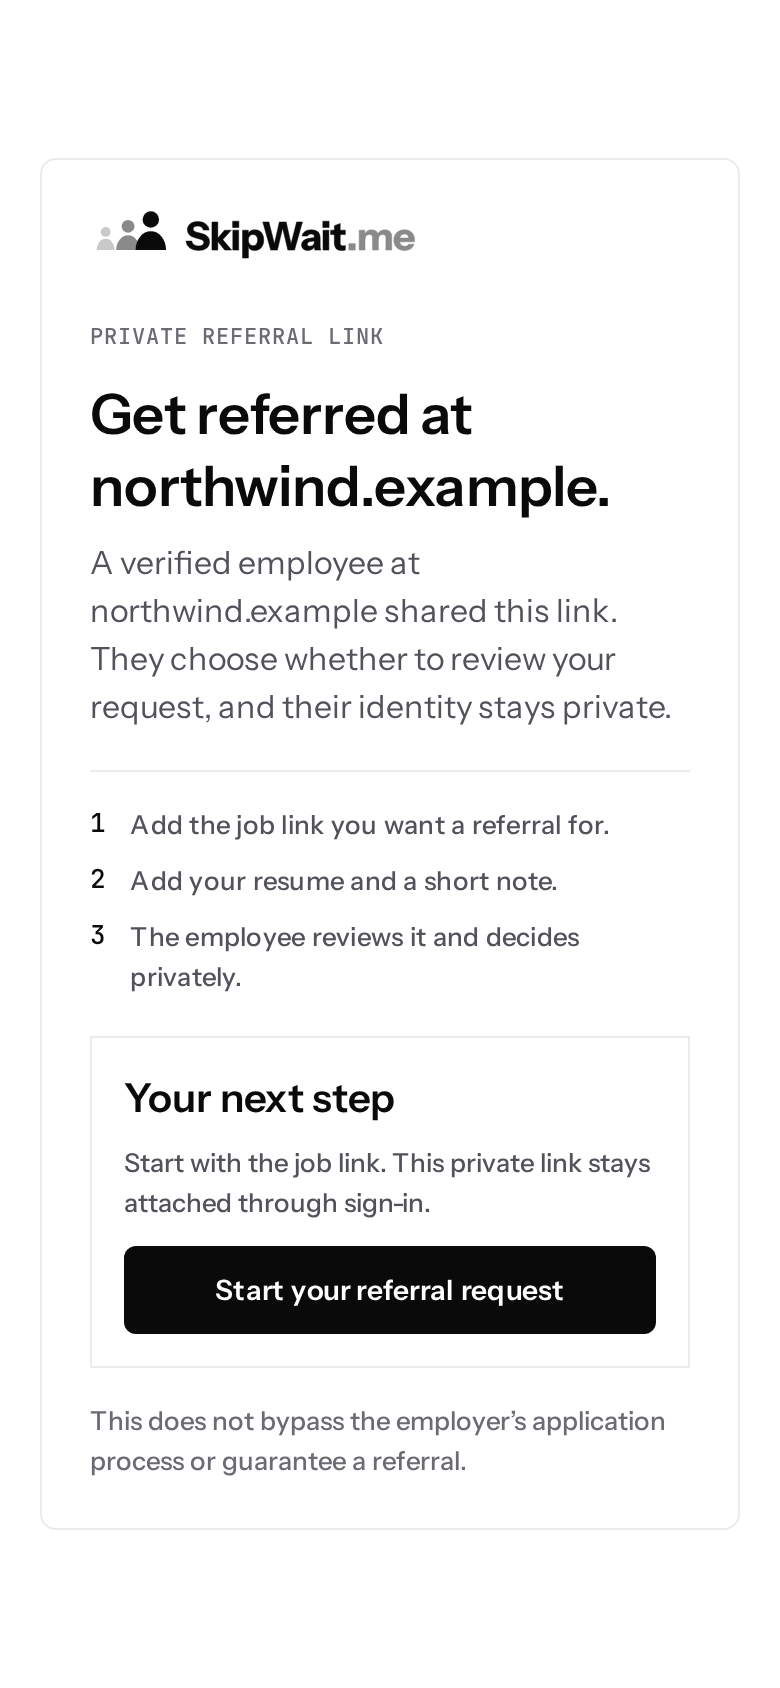
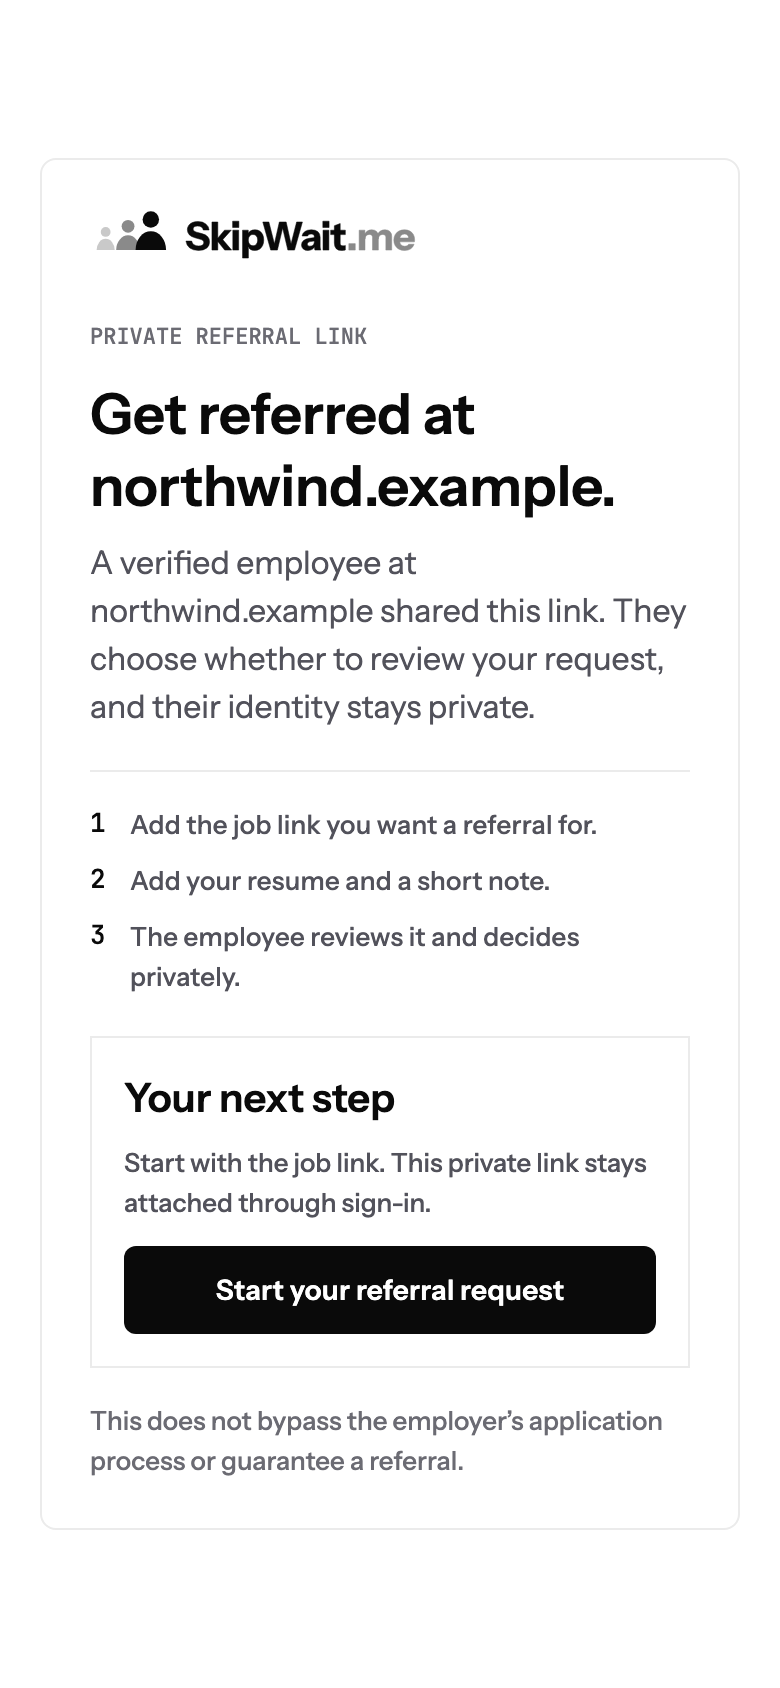
D-048-p3-links: long company domains stay inside the tile at 390px
The link frame's tile is a grid item with w-full max-w-[560px] and no
min-width floor, so an unbroken 26-36 character company domain set the
column's max-content and grew the page sideways on a phone. Add min-w-0
and overflow-wrap:anywhere to the tile; the domain wraps inside it.

Captures now cover both long domains and fail on any horizontal overflow.
Before: fast-long-domain@390=190px, vanity-long-domain@390=68px. After: 0
on all 16 shots; the other captures re-rendered unchanged.

diff --git a/client/src/pages/goal/links/goalLinks.test.tsx b/client/src/pages/goal/links/goalLinks.test.tsx
@@ -75,6 +75,14 @@ describe("/fast/:linkCode", () => {
     expect(go).toHaveBeenCalledWith("/start?fast=a%20b%2Fc");
   });
 
+  it("keeps a 36-character company domain intact in the goal line and the body", async () => {
+    const longDomain = "fabrikaminternationalholding.example";
+    vi.stubGlobal("fetch", vi.fn(async () => ok({ link: { companyDomain: longDomain, isActive: true } })));
+    render(<FastTrackLink />);
+    expect(await screen.findByRole("heading", { level: 1, name: `Get referred at ${longDomain}.` })).toBeTruthy();
+    expect(screen.getByText(new RegExp(`A verified employee at ${longDomain} shared this link`))).toBeTruthy();
+  });
+
   it("shows a loading state before the link answers", async () => {
     vi.stubGlobal("fetch", vi.fn(() => new Promise(() => {})));
     render(<FastTrackLink />);

diff --git a/client/src/pages/goal/links/LinkFrame.tsx b/client/src/pages/goal/links/LinkFrame.tsx
@@ -12,7 +12,7 @@ import { GoalNextStep } from "@/components/goal/GoalNextStep";
 export function LinkFrame({ screen, children }: { screen: string; children: ReactNode }) {
   return (
     <main data-skipwait-screen={screen} className="grid min-h-dvh place-items-center bg-g-canvas px-5 py-6 font-g-sans text-g-ink">
-      <section className="w-full max-w-[560px] rounded-g-tile border border-g-hairline bg-g-surface p-6 gdesk:p-8">
+      <section className="w-full min-w-0 max-w-[560px] [overflow-wrap:anywhere] rounded-g-tile border border-g-hairline bg-g-surface p-6 gdesk:p-8">
         <Link href="/" aria-label="SkipWait.me home" className="inline-flex">
           <GoalBrandMark />
         </Link>
